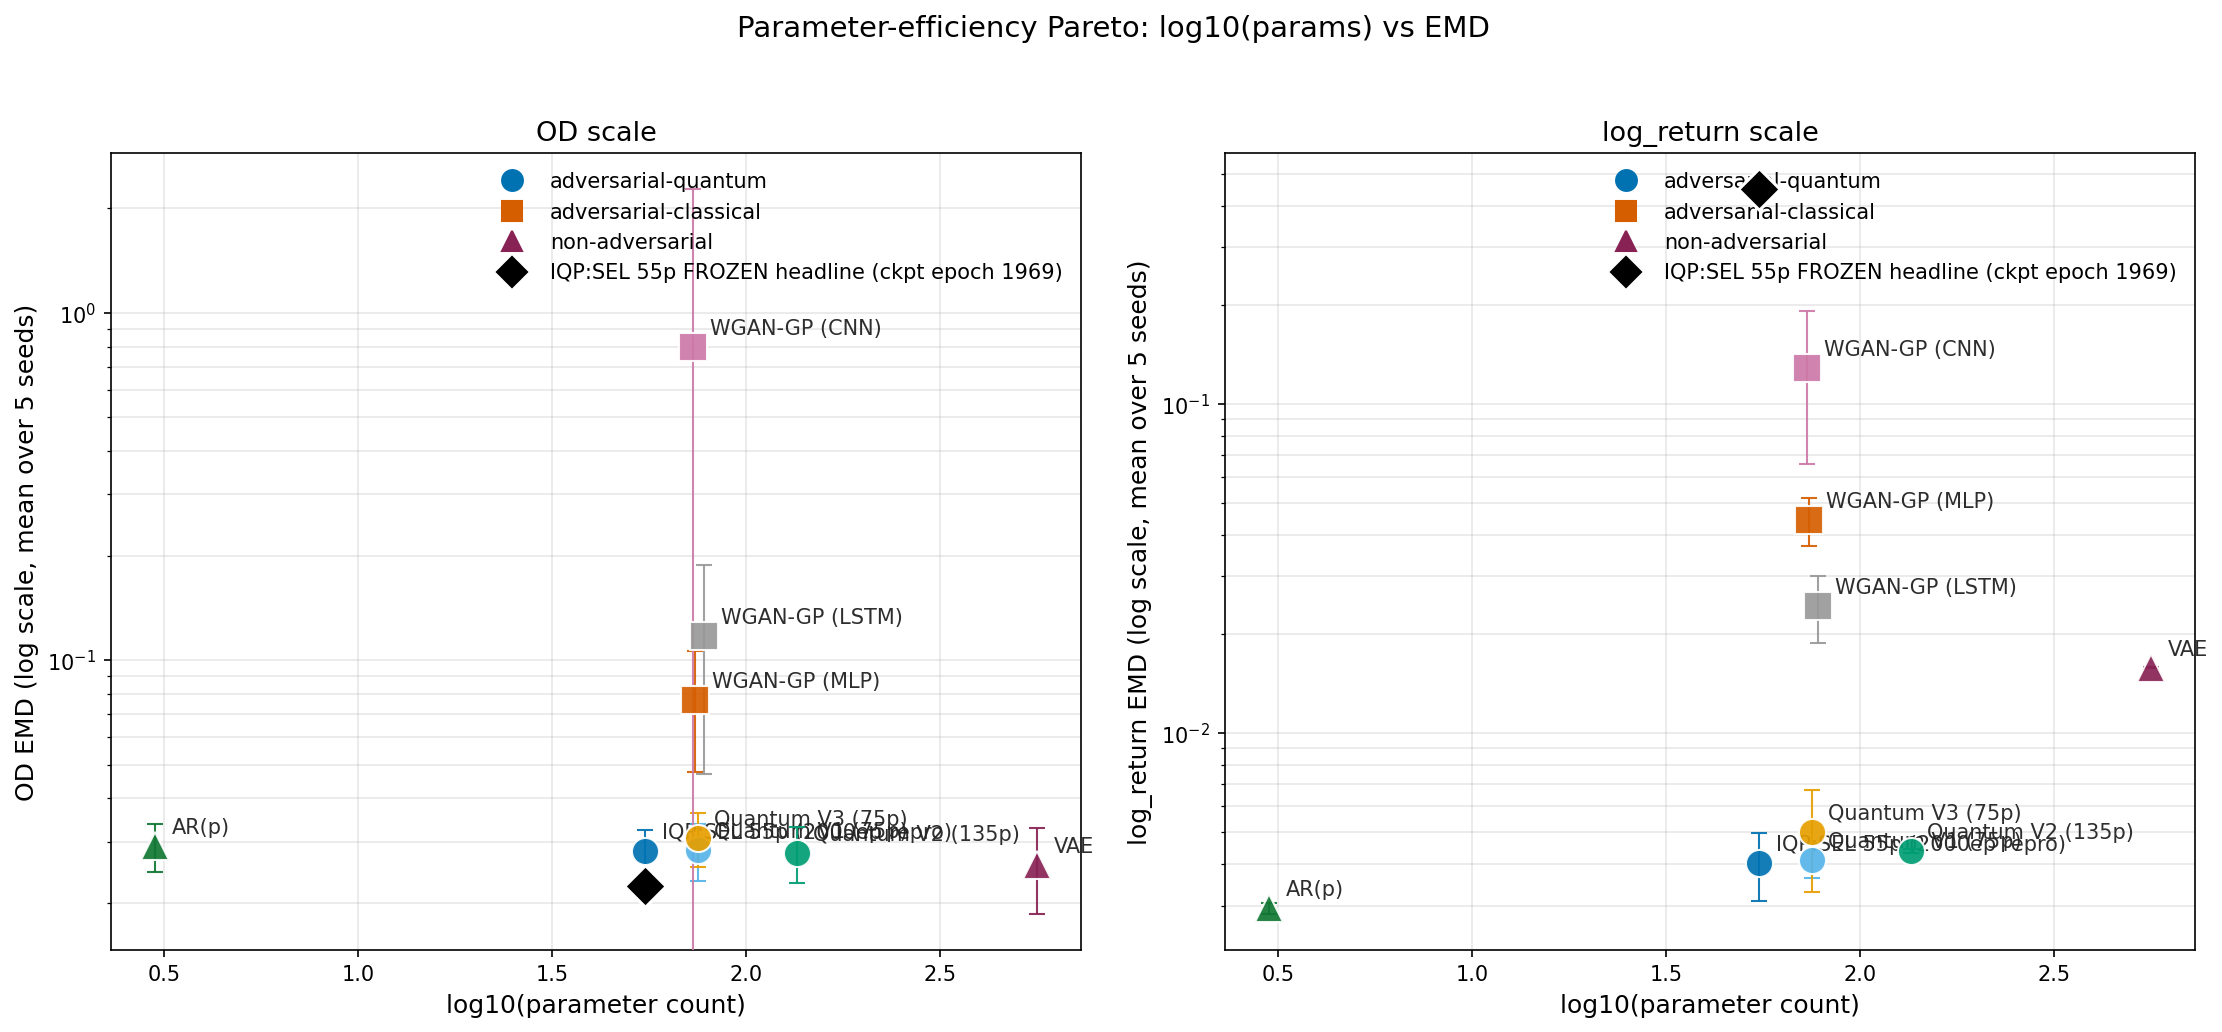
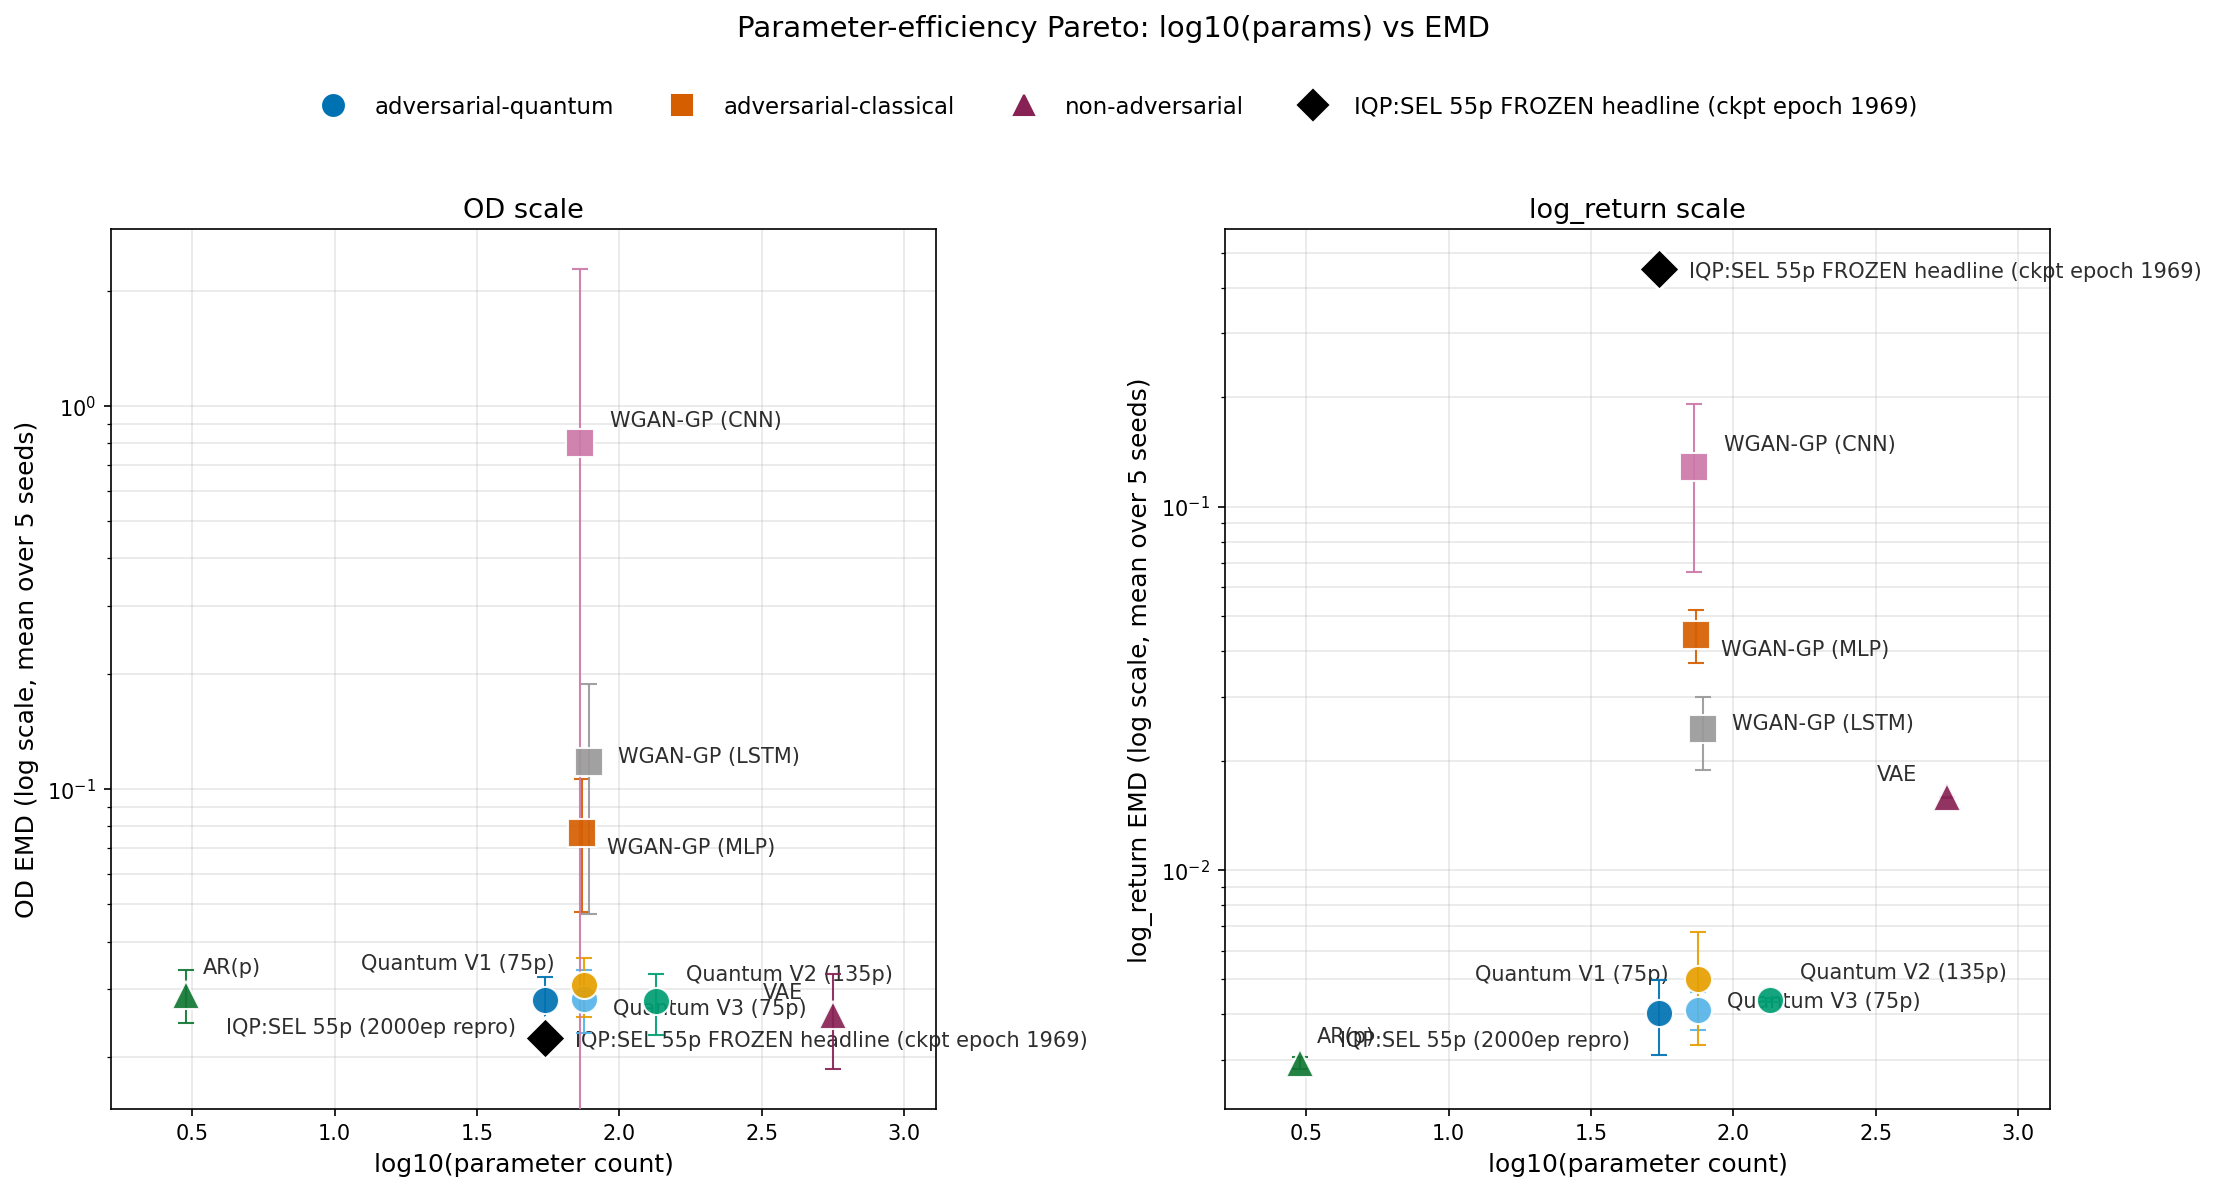
fix(14-21-post): Fig 6 — move legend out, anti-collide cluster labels
- Legend was sitting in upper-right inside each panel and overlapped
  the wgan_cnn/wgan_lstm cluster. Promoted to a single fig-level legend
  centered above the panels (ncol=4, outside the data area).
- Annotations stacked on top of each other for the 6 markers clustered
  at log10(params) ~ 1.75-2.15 in both panels. Replaced the uniform
  (8, 6) offset with a per-model offset dict that scatters labels in
  different cardinal directions (NW/NE/SW/SE/E) per model so they no
  longer pile up. Right-justified labels when offset is negative.
- Added 0.4 unit x-axis padding so leftmost (AR(p)) and rightmost
  (VAE 562p) labels don't clip the panel edges.
- Figure height bumped 7.0 -> 8.0 to make room for the top legend.

PDF: 81 pages, 0 errors, 0 undefined refs/cites.

diff --git a/revision/run_figure_suite.py b/revision/run_figure_suite.py
@@ -2576,7 +2576,22 @@ def render_param_efficiency_pareto(repo: Path,
             f"missing from matched2000_dualscale.json."
         )
 
-    fig, axes = plt.subplots(1, 2, figsize=(15, 7.0))
+    # Per-model annotation offsets (in points). Hand-tuned to avoid the
+    # mid-cluster pile-up at log10(params) ~ 1.85 in both panels.
+    ANNOTATION_OFFSETS = {
+        "iqp_sel_55_repro": (-14, -16),
+        "V1":               (-14,  14),
+        "V2":               ( 14,  10),
+        "V3":               ( 14, -14),
+        "wgan_mlp":         ( 12, -10),
+        "wgan_cnn":         ( 14,   8),
+        "wgan_lstm":        ( 14,   0),
+        "vae":              (-14,   8),
+        "ar":               (  8,  10),
+    }
+    HEADLINE_OFFSET = (14, -4)
+
+    fig, axes = plt.subplots(1, 2, figsize=(15, 8.0))
     panel_specs = [
         (axes[0], "OD",        "OD_emd_mean",        "OD_emd_std"),
         (axes[1], "log_return", "log_return_emd_mean", "log_return_emd_std"),
@@ -2591,16 +2606,24 @@ def render_param_efficiency_pareto(repo: Path,
                 capsize=4, ecolor=rec["color"], elinewidth=1.0,
                 alpha=0.92, zorder=4,
             )
+            off = ANNOTATION_OFFSETS.get(m, (8, 6))
+            ha = "left" if off[0] >= 0 else "right"
             ax.annotate(
                 MODEL_LABELS.get(m, m),
                 (rec["log10_params"], rec[mean_key]),
-                xytext=(8, 6), textcoords="offset points",
-                fontsize=10, color="#222222", alpha=0.95,
+                xytext=off, textcoords="offset points",
+                fontsize=10, color="#222222", alpha=0.95, ha=ha,
             )
         head_y = float((head_od if scale_label == "OD" else head_lr)["mean"])
         ax.scatter([head_x], [head_y], marker="D", s=200,
                    color=HEADLINE_COLOR, edgecolor="white",
                    linewidths=1.5, zorder=10, label=HEADLINE_LABEL)
+        ax.annotate(
+            HEADLINE_LABEL,
+            (head_x, head_y),
+            xytext=HEADLINE_OFFSET, textcoords="offset points",
+            fontsize=10, color="#222222", alpha=0.95, ha="left",
+        )
         ax.set_xlabel("log10(parameter count)", fontsize=12)
         ax.set_ylabel(f"{scale_label} EMD (log scale, mean over 5 seeds)",
                       fontsize=12)
@@ -2608,30 +2631,39 @@ def render_param_efficiency_pareto(repo: Path,
         ax.set_yscale("log")
         ax.tick_params(axis="both", labelsize=10)
         ax.grid(True, alpha=0.3, which="both")
-        ax.legend(
-            handles=[
-                plt.Line2D([], [], linestyle="", marker="o",
-                           color="#0072B2", markersize=10,
-                           label="adversarial-quantum"),
-                plt.Line2D([], [], linestyle="", marker="s",
-                           color="#D55E00", markersize=10,
-                           label="adversarial-classical"),
-                plt.Line2D([], [], linestyle="", marker="^",
-                           color="#882255", markersize=10,
-                           label="non-adversarial"),
-                plt.Line2D([], [], linestyle="", marker="D",
-                           color=HEADLINE_COLOR, markersize=12,
-                           markeredgecolor="white",
-                           label=HEADLINE_LABEL),
-            ],
-            frameon=False, fontsize=10, loc="upper right",
-        )
+        # Add x-margin so leftmost/rightmost annotations don't clip.
+        x_lo, x_hi = ax.get_xlim()
+        ax.set_xlim(x_lo - 0.15, x_hi + 0.25)
+
+    # Single fig-level legend below the suptitle, outside both panels.
+    legend_handles = [
+        plt.Line2D([], [], linestyle="", marker="o",
+                   color="#0072B2", markersize=10,
+                   label="adversarial-quantum"),
+        plt.Line2D([], [], linestyle="", marker="s",
+                   color="#D55E00", markersize=10,
+                   label="adversarial-classical"),
+        plt.Line2D([], [], linestyle="", marker="^",
+                   color="#882255", markersize=10,
+                   label="non-adversarial"),
+        plt.Line2D([], [], linestyle="", marker="D",
+                   color=HEADLINE_COLOR, markersize=12,
+                   markeredgecolor="white",
+                   label=HEADLINE_LABEL),
+    ]
+    fig.legend(
+        handles=legend_handles,
+        loc="upper center",
+        bbox_to_anchor=(0.5, 0.94),
+        ncol=4, frameon=False, fontsize=11,
+    )
 
     fig.suptitle(
         "Parameter-efficiency Pareto: log10(params) vs EMD",
         fontsize=14,
+        y=0.99,
     )
-    fig.tight_layout(rect=(0, 0, 1, 0.95))
+    fig.tight_layout(rect=(0, 0, 1, 0.90))
 
     companion = {
         "figure": "param_efficiency_pareto",
